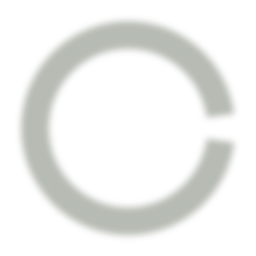
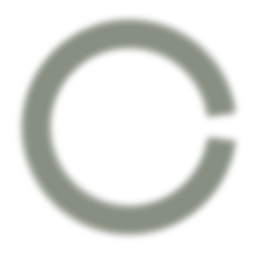
Reduce mobile bracelet rendering overhead
* perf: reduce bracelet shadow overdraw at high DPI

* perf: avoid additional MSAA on high-DPI mobile canvases

Changed region(s): [[0.0625, 0.0625, 0.9375, 0.9375]]

diff --git a/src/renderer.ts b/src/renderer.ts
@@ -15,6 +15,22 @@ const RELEASE_GLOW:Record<JadeName,string> = {
  ice:'166,231,219', ivory:'255,244,207'
 };
 const HALF_GAP = Math.asin(C.GAP/(2*(C.R-C.BAND/2)))/C.D;
+const SHADOW_SIZE=110;
+// The shadow texture has a transparent center and corners. Keep enough padding
+// for linear sampling and draw only the annulus containing the soft shadow.
+const shadowMesh=(()=>{
+ const segments=24,vertices:number[]=[],uvs:number[]=[],indices:number[]=[];
+ for(let i=0;i<segments;i++){
+  for(const radius of [28,52]){
+   const p=C.point({x:0,y:0},i*360/segments,radius);
+   vertices.push(p.x,p.y);
+   uvs.push(.5+p.x/SHADOW_SIZE,.5+p.y/SHADOW_SIZE);
+  }
+  const inner=i*2,next=(inner+2)%(segments*2);
+  indices.push(inner,inner+1,next+1,inner,next+1,next);
+ }
+ return {vertices:new Float32Array(vertices),uvs:new Float32Array(uvs),indices:new Uint16Array(indices)};
+})();
 
 export class Board {
  viewport=new Laya.Sprite();root=new Laya.Sprite();space=new Laya.Sprite();rods=new Laya.Sprite();fixedRods=new Laya.Sprite();effects=new Laya.Sprite();
@@ -80,11 +96,10 @@ export class Board {
   s.rings.forEach((r,i)=>{
    const root=new Laya.Sprite();root.pos(r.x,r.y);this.space.addChild(root);
    const shadow=new Laya.Sprite();
-   // Reuse the preblurred silhouette; its soft tips follow the gap without another mesh draw.
-   shadow.graphics.drawImage(Laya.loader.getRes('assets/shadow.png'),-55,-55,110,110);
-   // A close contact shadow separates pale jade from the pale tray. Reuse the
-   // original gap-shaped texture, preserving its transparent opening.
-   shadow.graphics.drawImage(Laya.loader.getRes('assets/shadow.png'),-54,-56,110,110);
+   const shadowTexture=Laya.loader.getRes('assets/shadow.png');
+   const {vertices,uvs,indices}=shadowMesh;
+   // The texture includes the contact shadow. Draw its visible annulus once.
+   shadow.graphics.drawTriangles(shadowTexture,0,0,vertices,uvs,indices);
    const offset=C.rot({x:1.7,y:3.6},-this.turn);shadow.pos(offset.x,offset.y);root.addChild(shadow);
    const halo=new Laya.Sprite();halo.visible=false;root.addChild(halo);
    const material=JADE_NAMES[i%JADE_NAMES.length];
@@ -315,7 +330,8 @@ export class Board {
   const ghosts=new Map(this.ghosts.map(g=>[g.r.id,g]));
   for(const r of s.rings){
    const v=this.rings.get(r.id)!;const ghost=ghosts.get(r.id);
-   const screen=this.toScreen(r),margin=72*this.zoom;
+   // Covers the outer shadow, its offset and the held-ring scale.
+   const screen=this.toScreen(r),margin=60*this.zoom;
    v.root.visible=(r.life==='active'||!!ghost)&&screen.x+margin>=this.rect.x&&screen.x-margin<=this.rect.x+this.rect.w&&screen.y+margin>=this.rect.y&&screen.y-margin<=this.rect.y+this.rect.h;
    const t=ghost?Math.min(1,(now-ghost.start)/releaseMs):0;
    // Cross-fade in place so the petal arc follows the original jade silhouette.

diff --git a/src/laya.d.ts b/src/laya.d.ts
@@ -1,6 +1,6 @@
 /* Minimal declarations for the bundled LayaAir 3.4 API used by this project. */
 declare namespace Laya {
- const Config:{useWebGL2:boolean};
+ const Config:{useWebGL2:boolean;isAntialias:boolean};
  const Browser:{width:number;height:number;clientWidth:number;clientHeight:number;onMobile:boolean;mainCanvas?:{source?:{style?:{cursor:string}}}};
  const PAL:{media?:{audioCtx?:{state:string;resume():Promise<void>}}};
  const InputManager:{multiTouchEnabled:boolean};
@@ -14,6 +14,7 @@ declare namespace Laya {
  const SoundManager:{playMusic(url:string,loops?:number):SoundChannel;playSound(url:string,loops?:number,complete?:()=>void,startTime?:number):SoundChannel;autoStopMusic:boolean};
 
  function init(width:number,height:number):Promise<void>;
+ function addBeforeInitCallback(callback:()=>void):void;
  class Sprite {
   x:number;y:number;width:number;height:number;rotation:number;alpha:number;visible:boolean;
   mouseEnabled:boolean;mouseThrough:boolean;cacheAs:string;zOrder:number;name:string;

diff --git a/src/main.ts b/src/main.ts
@@ -1198,6 +1198,13 @@ class Game {
   if(this.model&&this.board)this.sync();
  }
 }
+Laya.addBeforeInitCallback?.(()=>{
+ // High-DPI phones already render the full scene at 2 backing pixels per CSS
+ // pixel. Skip the additional WebGL multisample buffer for this mobile tier.
+ if(typeof window!=='undefined'&&Laya.Browser.clientWidth<600&&window.devicePixelRatio>=2){
+  Laya.Config.isAntialias=false;
+ }
+});
 async function boot():Promise<void>{
  // Load the compact Chinese fonts before Laya measures or caches any UI text.
  // The 2D game needs no WebGL2 features. WebGL1 keeps scene caches single-sampled

diff --git a/scripts/generate-jade.py b/scripts/generate-jade.py
@@ -42,9 +42,11 @@ for name,(base,trans) in palette.items():
  rgba=np.dstack([np.clip(col,0,255).astype('uint8'),alpha])
  im=Image.fromarray(rgba)
  im.save(OUT/(name+'.png'),optimize=True)
- # A separate, unrotated support shadow is placed under each jade sprite.
+# Bake the support and close contact shadows into one gap-shaped texture.
 sh=Image.fromarray((aa*mask*90).astype('uint8'),'L').filter(ImageFilter.GaussianBlur(10))
 shadow=Image.new('RGBA',(N,N),(49,61,39,0));shadow.putalpha(sh)
+contact=shadow.transform(shadow.size,Image.Transform.AFFINE,(1,0,-N/110,0,1,N/110),Image.Resampling.BILINEAR)
+shadow=Image.alpha_composite(shadow,contact)
 shadow.save(OUT/'shadow.png',optimize=True)
 
 W,H=1000,1500
